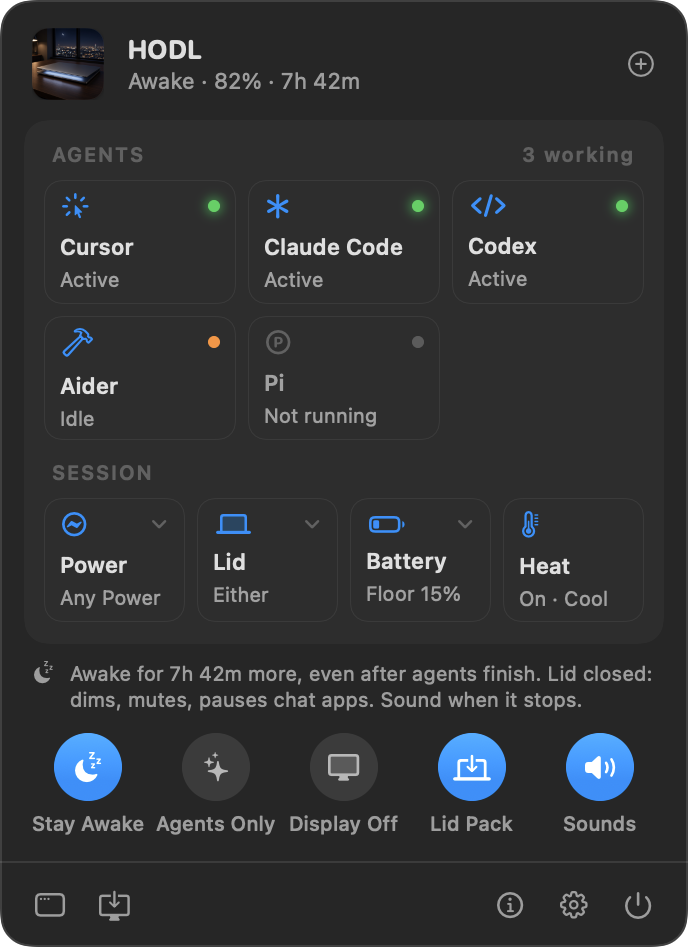
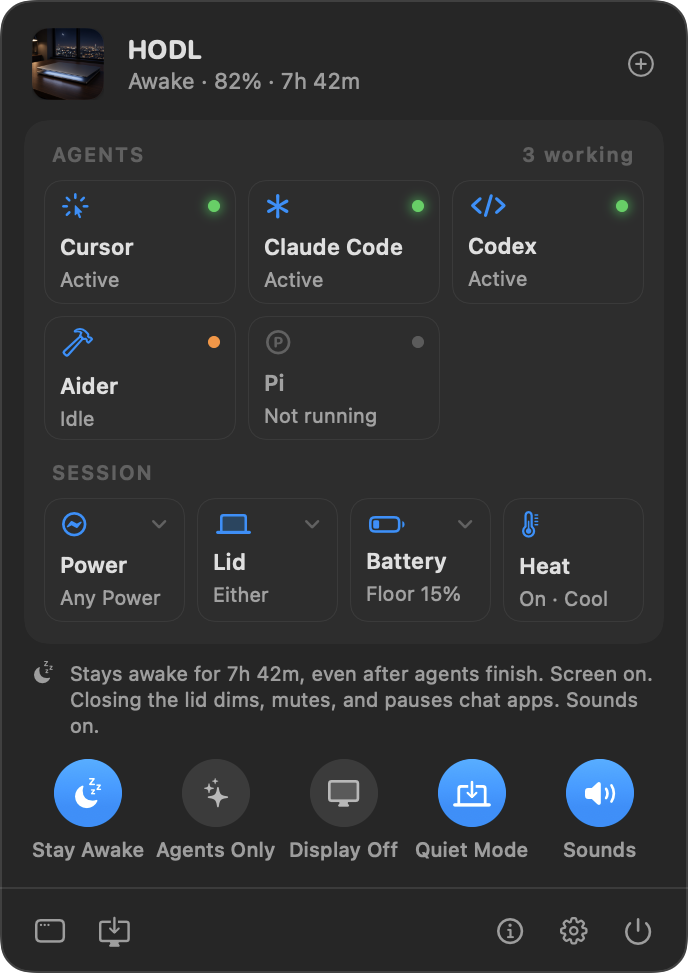
Rename Lid Pack to Quiet Mode, say what each switch does, and release 1.0.2

diff --git a/Sources/HODL/UI/MenuPanel.swift b/Sources/HODL/UI/MenuPanel.swift
@@ -238,16 +238,15 @@ struct MenuPanel: View {
     /// What the five switches below add up to, in plain words.
     private var switchSummary: String {
         guard let session = engine.session else {
-            return adaptive
-                ? "Off: the Mac sleeps as usual. Turn on Stay Awake to keep it awake while agents work."
-                : "Off: the Mac sleeps as usual. Turn on Stay Awake to keep it awake overnight."
+            return "Stay Awake is off, so the Mac sleeps as usual. The other switches apply once it’s on."
         }
-        let left = engine.remaining.map { "for \(HoldEngine.format($0)) more" } ?? "with no time limit"
-        var parts = [session.adaptive ? "Awake while agents work, then sleeps." : "Awake \(left), even after agents finish."]
-        if displayOff { parts.append("Screen off.") }
-        if lidPack { parts.append("Lid closed: dims, mutes, pauses chat apps.") }
-        if playSounds { parts.append("Sound when it stops.") }
-        return parts.joined(separator: " ")
+        let left = engine.remaining.map { "for \(HoldEngine.format($0))" } ?? "with no time limit"
+        return [
+            session.adaptive ? "Stays awake until agents finish." : "Stays awake \(left), even after agents finish.",
+            displayOff ? "Screen off." : "Screen on.",
+            lidPack ? "Closing the lid dims, mutes, and pauses chat apps." : "Closing the lid leaves sound and apps alone.",
+            playSounds ? "Sounds on." : "Sounds off.",
+        ].joined(separator: " ")
     }
 
     // MARK: Switches
@@ -262,8 +261,8 @@ struct MenuPanel: View {
                         help: "Stay awake only while an agent is working, and let the Mac sleep once it has been idle for a while.")
             QuickSwitch(symbol: "display", title: "Display Off", isOn: $displayOff,
                         help: "Turn the display off once the Mac is set to stay awake. It keeps running.")
-            QuickSwitch(symbol: "laptopcomputer.and.arrow.down", title: "Lid Pack", isOn: $lidPack,
-                        help: "When the lid closes: dim, mute, and pause Slack, Discord, and WhatsApp. Agents are never paused.")
+            QuickSwitch(symbol: "laptopcomputer.and.arrow.down", title: "Quiet Mode", isOn: $lidPack,
+                        help: "When you close the lid: dim the screen and keyboard light, mute sound, and pause Slack, Discord, and WhatsApp. Agents are never paused. Everything comes back when you open it.")
             QuickSwitch(symbol: playSounds ? "speaker.wave.2.fill" : "speaker.slash.fill", title: "Sounds", isOn: $playSounds,
                         help: "Soft sounds when staying awake starts and ends.")
         }

diff --git a/Sources/HODL/System/LidPack.swift b/Sources/HODL/System/LidPack.swift
@@ -59,15 +59,15 @@ enum LidPack {
             ScreenLock.lockNow()
             applied.append("locked")
         }
-        if !applied.isEmpty { Ledger.shared.add("lid pack", applied.joined(separator: " · ")) }
+        if !applied.isEmpty { Ledger.shared.add("quiet mode", applied.joined(separator: " · ")) }
     }
 
-    /// Undo the lid pack. Low Power Mode stays until the hold ends, since the battery step may also want it.
+    /// Undo Quiet Mode. Low Power Mode stays until the hold ends, since the battery step may also want it.
     static func undo() -> [String] {
         guard isApplied else { return [] }
         isApplied = false
         let failures = Recovery.restore([.processes, .audio, .brightness])
-        Ledger.shared.add("lid pack", failures.isEmpty ? "Resumed apps and restored sound and brightness." : failures.joined(separator: " "))
+        Ledger.shared.add("quiet mode", failures.isEmpty ? "Resumed apps and restored sound and brightness." : failures.joined(separator: " "))
         return failures
     }
 

diff --git a/Sources/HODL/UI/Marketing.swift b/Sources/HODL/UI/Marketing.swift
@@ -129,7 +129,7 @@ private struct Banners: View {
 private struct LedgerCard: View {
     private let rows: [(String, String, String)] = [
         ("11:48 PM", "Awake", "Awake until 7:00 AM · from menu"),
-        ("12:03 AM", "Lid pack", "dimmed · keyboard light off · muted · paused Slack"),
+        ("12:03 AM", "Quiet mode", "dimmed · keyboard light off · muted · paused Slack"),
         ("2:41 AM", "Low power", "Turned on Low Power Mode (battery at 40%)."),
         ("6:12 AM", "Stopped", "Every agent finished and stayed idle past the timeout."),
         ("6:12 AM", "Restore", "Resumed apps and restored sound and brightness."),

diff --git a/Sources/HODL/UI/SettingsView.swift b/Sources/HODL/UI/SettingsView.swift
@@ -196,7 +196,7 @@ struct SettingsView: View {
                 }
             }
             Section("When the lid closes while awake") {
-                Toggle("Use the lid pack", isOn: $lidPack)
+                Toggle("Quiet Mode", isOn: $lidPack)
                 Group {
                     Toggle("Dim the display and keyboard light", isOn: $packDim)
                     Toggle("Mute sound", isOn: $packMute)

diff --git a/README.md b/README.md
@@ -13,20 +13,20 @@
 
 ## Download
 
-**[Download HODL 1.0.1](https://github.com/deepujain/hodl/releases/download/v1.0.1/HODL.zip)** (universal, 2.9 MB) · [release notes](https://github.com/deepujain/hodl/releases/tag/v1.0.1) · [website](https://1xaispark.com/apps/hodl.html)
+**[Download HODL 1.0.2](https://github.com/deepujain/hodl/releases/download/v1.0.2/HODL.zip)** (universal, 2.9 MB) · [release notes](https://github.com/deepujain/hodl/releases/tag/v1.0.2) · [website](https://1xaispark.com/apps/hodl.html)
 
 Requires macOS 14 Sonoma or later, on Apple silicon or Intel. Unzip, move HODL to Applications, then right-click it and choose **Open** the first time; the build isn’t notarized yet.
 
 ## Which switches to turn on
 
-| I want… | 🌙 Stay Awake | ✨ Agents Only | 🖥 Display Off | 💻 Lid Pack |
+| I want… | 🌙 Stay Awake | ✨ Agents Only | 🖥 Display Off | 🤫 Quiet Mode |
 |---|:---:|:---:|:---:|:---:|
 | ⭐ **Lid closed, Mac awake overnight while agents run** | ✅ On | ✅ On | Doesn’t matter | ✅ On |
 | **Lid open, Mac awake overnight while agents run** | ✅ On | ✅ On | ✅ On | Doesn’t matter |
 | **Mac awake for 8 hours, agents or not** | ✅ On | Off | ✅ On | ✅ On |
 | **Normal Mac, sleeps as usual** | Off | Doesn’t matter | Doesn’t matter | Doesn’t matter |
 
-On is blue in the panel; Off is grey. **Stay Awake** is the main switch: nothing else keeps the Mac awake on its own. **Agents Only** lets the Mac sleep about 10 minutes after your agents finish, instead of after 8 hours. **Display Off** only turns the screen off. **Lid Pack** only acts when the lid closes: it dims, mutes, and pauses chat apps, and puts them back when the lid opens.
+On is blue in the panel; Off is grey. **Stay Awake** is the main switch: nothing else keeps the Mac awake on its own. **Agents Only** lets the Mac sleep about 10 minutes after your agents finish, instead of after 8 hours. **Display Off** only turns the screen off. **Quiet Mode** only acts when you close the lid: it dims the screen and keyboard light, mutes sound, and pauses chat apps, and puts them back when you open it.
 
 Whatever you choose, the Mac still sleeps at 15% battery or if it gets too hot. With the lid closed on battery, macOS sleeps unless you turn on the closed-lid helper once in **Settings › Lid & Display**; plugged in, nothing else is needed.
 
@@ -72,7 +72,7 @@ The build uses SwiftPM, `lipo` for a universal binary, the icon rendered from `R
 - **Agents Only.** With Agents Only on, HODL keeps the Mac awake only while an agent is working, and lets it sleep after a configurable idle timeout (10 minutes by default).
 - **Privacy.** HODL never reads code, prompts, or terminal output. Hooks send only the agent name, its state, and a session ID; for interpreters, HODL reads only the script path.
 
-**Lid pack.** When the lid closes while HODL is on: dim the display and keyboard backlight, mute sound, pause Slack, Discord, and WhatsApp (`SIGSTOP`), and optionally pause every other Dock app, turn on Low Power Mode, and lock the screen. Agents, terminals, meeting apps (Zoom, Teams, Webex, FaceTime, OBS, Loom), browsers, editors, and Apple’s own apps are never paused. Everything resumes when the lid opens or HODL turns off.
+**Quiet Mode.** When you close the lid while HODL is on: dim the display and keyboard backlight, mute sound, pause Slack, Discord, and WhatsApp (`SIGSTOP`), and optionally pause every other Dock app, turn on Low Power Mode, and lock the screen. Agents, terminals, meeting apps (Zoom, Teams, Webex, FaceTime, OBS, Loom), browsers, editors, and Apple’s own apps are never paused. Everything resumes when the lid opens or HODL turns off.
 
 **Display.** Turn the display off when HODL turns on, turn it off now, turn it off N seconds after agents finish, or keep it on. Separately, *Prevent the screen saver and screen lock* declares user activity every 30 seconds while HODL is on (like `caffeinate -u`); leave it off and macOS locks as usual while agents keep working.
 
@@ -107,7 +107,7 @@ HTTP API on `127.0.0.1:8742` (loopback only): `GET /status`; `POST /hold`, `/rel
 Sources/HODL/App      Entry point, windows, app icon
 Sources/HODL/Model    Preferences, policies, harness catalog
 Sources/HODL/Engine   Stay-awake engine, commands, local HTTP API
-Sources/HODL/System   Assertions, power, recovery journal, backstop, lid pack, hotkey, ledger
+Sources/HODL/System   Assertions, power, recovery journal, backstop, quiet mode, hotkey, ledger
 Sources/HODL/Agents   Process scanner, agent monitor, hook installer, App Nap
 Sources/HODL/UI       Menu panel, session window, Settings, About
 Scripts/              hodl, hodl-run, hodl-hook (bundled into the app)
